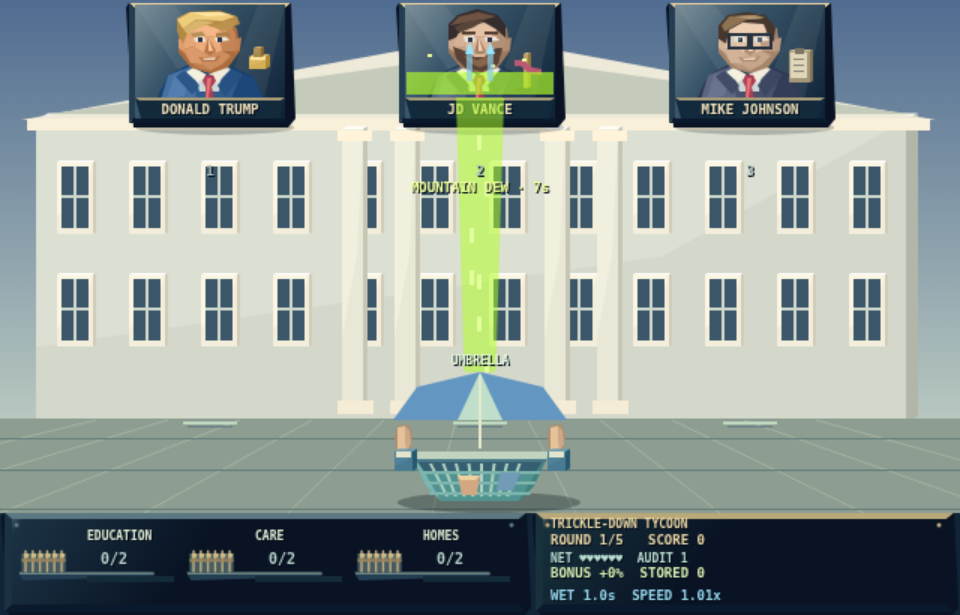
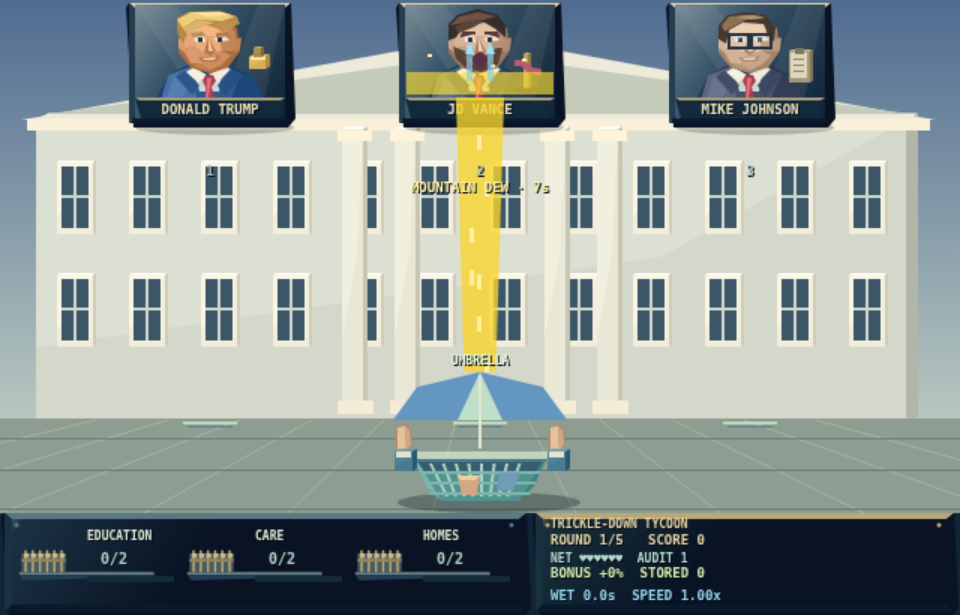
Change Tycoon soda flood from green to yellow

Changed region(s): [[0.4062, 0.0927, 0.5938, 0.6179], [0.7188, 0.9577, 0.75, 0.9886], [0.5938, 0.9577, 0.625, 0.9886]]

diff --git a/src/games/trickle-down-tycoon/render.ts b/src/games/trickle-down-tycoon/render.ts
@@ -408,11 +408,11 @@ export function render(c: CanvasRenderingContext2D, m: TycoonModel, config: Tyco
       c.rect(bx + 1, 4, 98, 59);
       c.clip();
       c.globalAlpha = 0.66;
-      rect(c, bx, 63 - 15 * fill, 100, 15 * fill, '#b5ff27');
+      rect(c, bx, 63 - 15 * fill, 100, 15 * fill, '#f9dc32');
       c.globalAlpha = 1;
       for (let i = 0; i < 4; i++) {
         const yy = 48 - 15 * fill + ((i * 11 + reaction.elapsed * 18) % 15);
-        rect(c, bx + 15 + i * 21, yy, 3, 2, '#eeff98');
+        rect(c, bx + 15 + i * 21, yy, 3, 2, '#fff4ae');
       }
       for (const ex of [43, 57]) {
         poly(c, [bx + ex, 28, bx + ex - 3, 36, bx + ex + 3, 36], '#95e6ff');
@@ -446,10 +446,10 @@ export function render(c: CanvasRenderingContext2D, m: TycoonModel, config: Tyco
         c.beginPath();
         c.rect(0, 65, 640, m.umbrella && Math.abs(m.netX - sx) < catchWidth(m) + 12 ? 183 : 237);
         c.clip();
-        poly(c, [sx - 16, 65, sx + 16, 65, sx + 9, 301, sx - 9, 301], '#afff2688');
+        poly(c, [sx - 16, 65, sx + 16, 65, sx + 9, 301, sx - 9, 301], '#f9d52dcc');
         for (let i = 0; i < 8; i++) {
           const y = 80 + ((i * 31 + reaction.elapsed * 100) % 214);
-          rect(c, sx - 7 + (i % 3) * 5, y, 3, 10, '#e2ff9c');
+          rect(c, sx - 7 + (i % 3) * 5, y, 3, 10, '#fff0a3');
         }
         c.restore();
       }
@@ -699,7 +699,7 @@ export function render(c: CanvasRenderingContext2D, m: TycoonModel, config: Tyco
       `MOUNTAIN DEW · ${Math.ceil(reaction.duration - reaction.elapsed)}s`,
       laneX[reaction.lane],
       128,
-      '#f0ff9a',
+      '#fff0a3',
       9,
       true,
     );

diff --git a/.internal_docs/specs/tycoon-returned-promises.md b/.internal_docs/specs/tycoon-returned-promises.md
@@ -10,7 +10,7 @@ Hollow promises show the book, care kit, home key or coin they promise, with a t
 
 A seeded random choice selects one of two reactions with equal probability:
 
-- Flood: a return projectile rises to the issuing booth. Over two seconds, neon-green Mountain Dew rises to the tie knot while the issuer cries. An overflow then runs down that lane for a randomly selected 5–15 seconds. An open umbrella protects the basket. Every unprotected second in the stream adds 0.01 to the movement-speed multiplier and reduces keyboard braking. Fractional exposure accumulates consistently across frame sizes. Wetness persists through the campaign and resets on restart.
+- Flood: a return projectile rises to the issuing booth. Over two seconds, yellow Mountain Dew rises to the tie knot while the issuer cries. An overflow then runs down that lane for a randomly selected 5–15 seconds. An open umbrella protects the basket. Every unprotected second in the stream adds 0.01 to the movement-speed multiplier and reduces keyboard braking. Fractional exposure accumulates consistently across frame sizes. Wetness persists through the campaign and resets on restart.
 - Capitulation: one second of anger, including red face, steam, squint and frown. The last 0.3 seconds zoom the resource into the large scene panel below the names. The full image holds for three seconds, then shrinks and travels automatically to the basket over 0.8 seconds. No catch input is required. Ordinary targets and the round timer freeze while the zoom/flying scene obscures play.
 
 ## Score interpretation
